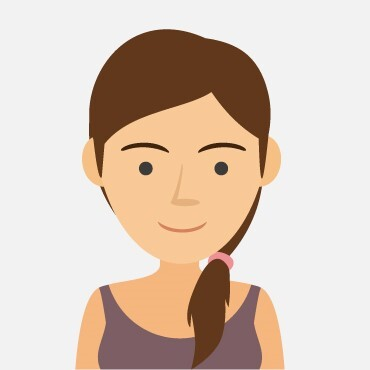
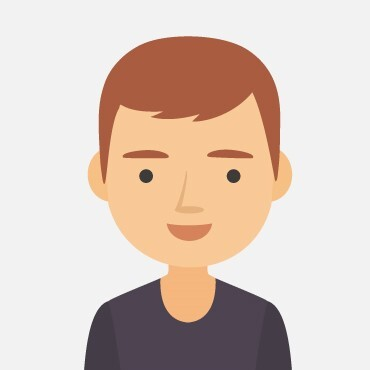
milestone-1

diff --git a/milestone-1/asset/js/main.js b/milestone-1/asset/js/main.js
@@ -1,0 +1,102 @@
+const app = new Vue({
+
+    el: '#app',
+    data: {
+        nomeUtente: 'Domenico Santo',
+        imgUtente: 'asset/img/avatar_io.jpg',
+        contacts: [
+            {
+                name: 'Michele',
+                avatar: '_1',
+                visible: true,
+                messages: [
+                    {
+                        date: '10/01/2020 15:30:55',
+                        text: 'Hai portato a spasso il cane?',
+                        status: 'sent'
+                    },
+                    {
+                        date: '10/01/2020 15:50:00',
+                        text: 'Ricordati di dargli da mangiare',
+                        status: 'sent'
+                    },
+                    {
+                        date: '10/01/2020 16:15:22',
+                        text: 'Tutto fatto!',
+                        status: 'received'
+                    }
+                ],
+            },
+            {
+                name: 'Fabio',
+                avatar: '_2',
+                visible: true,
+                messages: [
+                    {
+                        date: '20/03/2020 16:30:00',
+                        text: 'Ciao come stai?',
+                        status: 'sent'
+                    },
+                    {
+                        date: '20/03/2020 16:30:55',
+                        text: 'Bene grazie! Stasera ci vediamo?',
+                        status: 'received'
+                    },
+                    {
+                        date: '20/03/2020 16:35:00',
+                        text: 'Mi piacerebbe ma devo andare a fare la spesa.',
+                        status: 'sent'
+                    }
+                ],
+            },
+
+            {
+                name: 'Samuele',
+                avatar: '_3',
+                visible: true,
+                messages: [
+                    {
+                        date: '28/03/2020 10:10:40',
+                        text: 'La Marianna va in campagna',
+                        status: 'received'
+                    },
+                    {
+                        date: '28/03/2020 10:20:10',
+                        text: 'Sicuro di non aver sbagliato chat?',
+                        status: 'sent'
+                    },
+                    {
+                        date: '28/03/2020 16:15:22',
+                        text: 'Ah scusa!',
+                        status: 'received'
+                    }
+                ],
+            },
+            {
+                name: 'Luis',
+                avatar: '_4',
+                visible: true,
+                messages: [
+                    {
+                        date: '10/01/2020 15:30:55',
+                        text: 'Lo sai che ha aperto una nuova pizzeria?',
+                        status: 'sent'
+                    },
+                    {
+                        date: '10/01/2020 15:50:00',
+                        text: 'Si, ma preferirei andare al cinema',
+                        status: 'received'
+                    }
+                ],
+            },
+        ],
+        amicoSelezionato: ''
+    },
+    methods: {
+        selezionaContatto(index) {
+            console.log('seleziona ' + index);
+            this.amicoSelezionato = this.contacts[index]
+        }
+    }
+
+})

diff --git a/milestone-1/index.html b/milestone-1/index.html
@@ -13,11 +13,11 @@
 
 <body>
 
-    <div class="container">
+    <div class="container" id="app">
         <div class="content_Utente">
             <section class="header_Utente">
-                <div class="imgUtente"><img src="./asset/img/avatar_io.jpg" alt=""></div>
-                <div class="nomeUtente">Nome Utente</div>
+                <div class="imgUtente"><img :src="imgUtente" alt=""></div>
+                <div class="nomeUtente">{{nomeUtente}}</div>
                 <div class="iconUtente">
                     <i class="fas fa-circle-notch"></i>
                     <i class="fas fa-comment-alt"></i>
@@ -38,8 +38,16 @@
                     <input type="text" placeholder="Cerca o inizia una nuova chat">
                 </div>
             </section>
+
             <section class="amici">
                 <!-- parte dinamica  -->
+                <div class="contact" v-for="(contact, index) in contacts" @click="selezionaContatto(index)">
+                    <div class="contatto_img"><img :src="`asset/img/avatar`+ contact.avatar +`.jpg`"></div>
+                    <div class="contatto_nome">{{contact.name}}</div>
+                    <div class="contatto_data">{{contact.messages[0].date}}</div>
+                    <div class="contatto_messaggio">{{contact.messages[0].text}}</div>
+                </div>
+
             </section>
         </div>
 
@@ -48,6 +56,10 @@
             <section class="header_Chat">
                 <!-- chat dinamica -->
                 <div class="chat">
+
+                    <img :src="'asset/img/avatar'+ amicoSelezionato.avatar +'.jpg'">
+                    <!-- {{amicoSelezionato.name}} -->
+
                     <!-- icona -->
                     <!-- ultimo accesso -->
                 </div>
@@ -60,6 +72,7 @@
 
             <section class="Text_Chat">
                 <!-- messaggi dinamici  -->
+                {{amicoSelezionato.messages}}
             </section>
 
             <section class="send_Text">
@@ -78,6 +91,7 @@
 
         </div>
     </div>
+    <script src="https://cdn.jsdelivr.net/npm/vue@2/dist/vue.js"></script>
     <script src="./asset/js/main.js"></script>
 </body>
 

diff --git a/milestone-1/asset/css/style.css b/milestone-1/asset/css/style.css
@@ -151,8 +151,52 @@ body
     width: 100%;
     height: 64%;
     overflow-y: scroll;
-    color: rebeccapurple;
-    border: 1px solid black;
+    background-color: #fff;
+}
+.contact
+{
+    width: 100%;
+    height: 100px;
+}
+.contatto_img
+{
+    width: 20%;
+    height: 100%;
+    float: left;
+    display: flex;
+    justify-content: center;
+    align-items: center;
+}
+.contatto_img img
+{
+    width: 80px;
+    border-radius: 50%;
+    padding: 0.5rem;
+}
+.contatto_nome, .contatto_data
+{
+    width: 40%;
+    height: 40%;
+    float: left;
+    padding: 0.5rem;
+}
+.contatto_messaggio
+{
+    width: 80%;
+    height: 60%;
+    float: left;
+    font-size: 0.8rem;
+    font-weight: 400;
+    padding: 0.5rem;
+    color: #B6B9C1;
+}
+
+.contatto_data
+{
+    font-size: 0.8rem;
+    font-weight: 300;
+    text-align: right;
+    color: #B6B9C1;
 }
 
 .header_Chat
@@ -168,7 +212,14 @@ body
 .chat
 {
     width: 80%;
+    height: 100%;
 }
+.chat img
+{
+    width: 10%;
+    border-radius: 50%;
+}
+
 .iconeChat
 {
     width: 20%;
